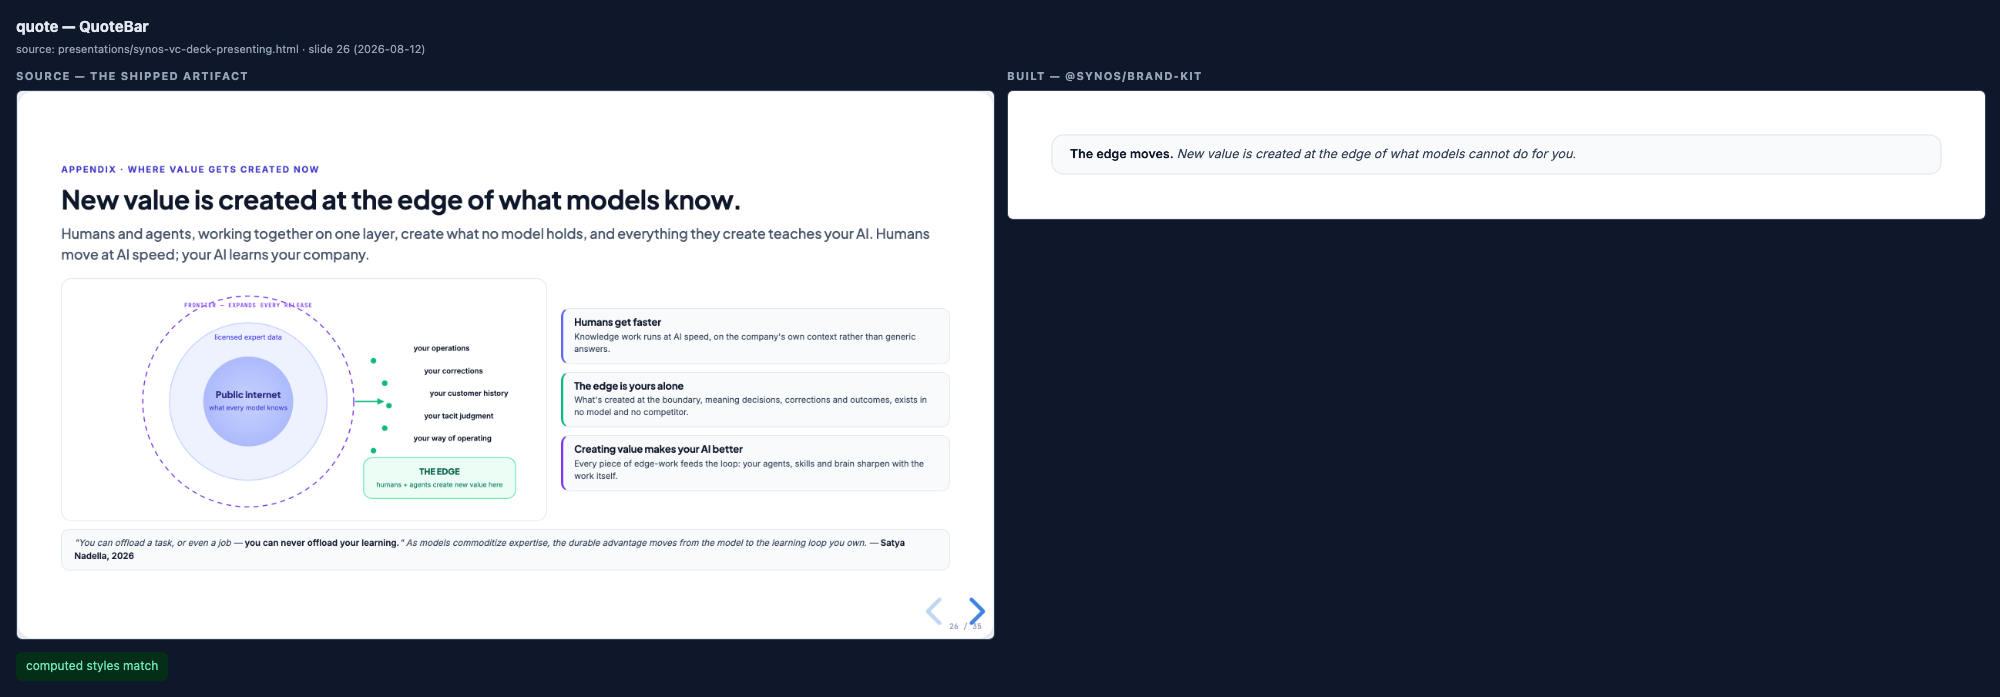
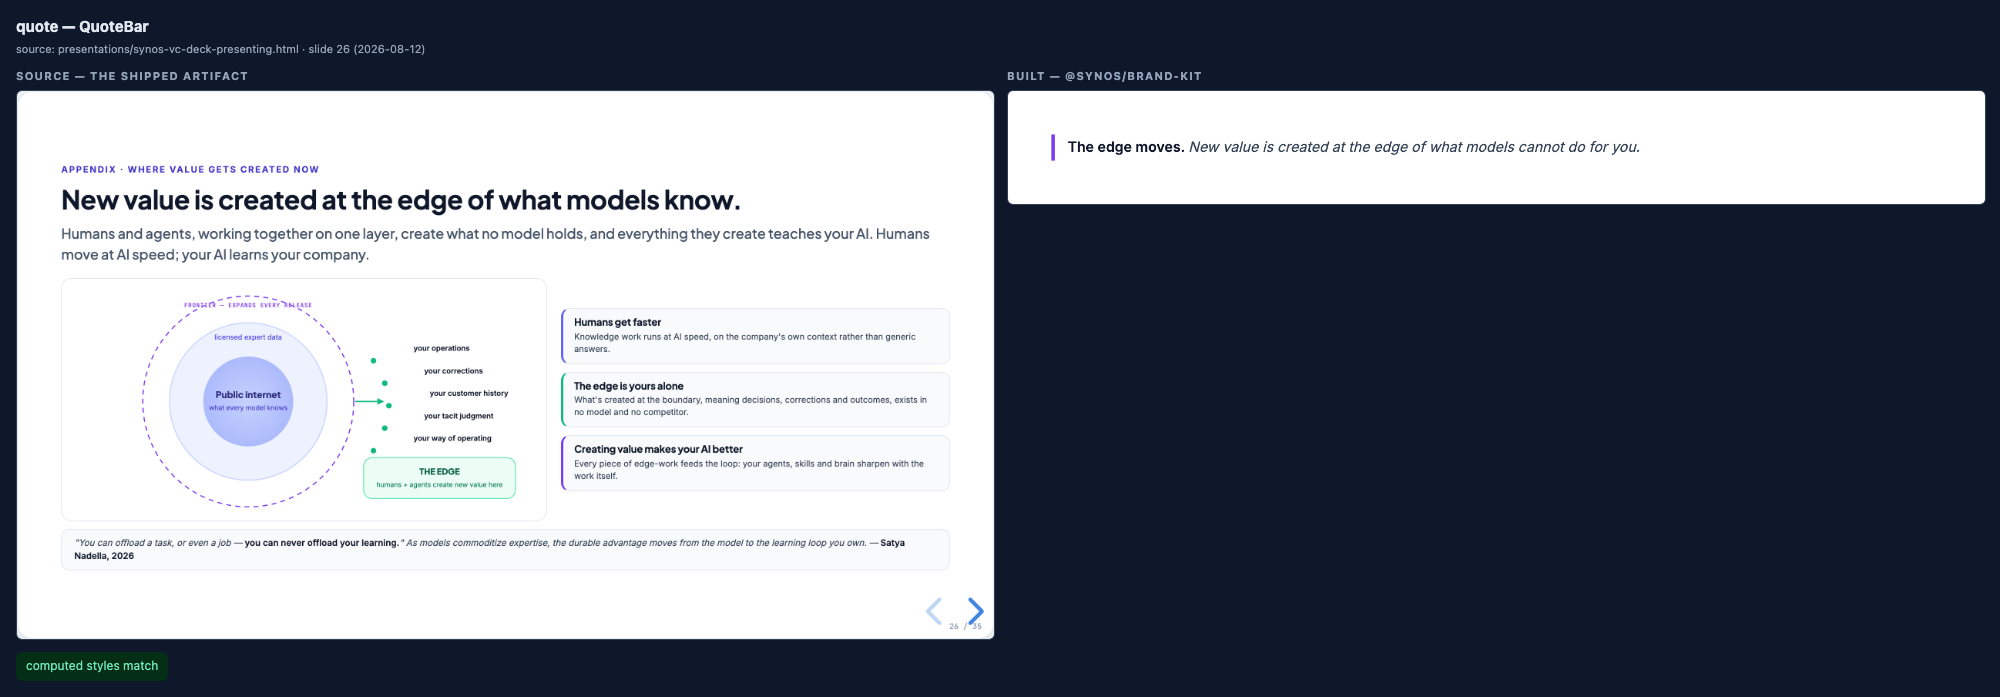
feat(brand-kit): re-solve the serif headline with ink, de-box the last four cards
Decision F. The Instrument Serif switch moved h1 34px/700 sans to 40px/400 serif
and called that a re-solve of the lost weight. It was not one. Presence on a wall
is ink, not point size, and Instrument Serif is both lighter-stemmed and
narrower-set than Plus Jakarta Sans, so the swap lost on both terms at once.
tools/ink.mjs draws the longest headline in the corpus at each spec and counts
glyph pixels:

  PJS 34/700   set width 919px   ink  9528px²
  IS  40/400   set width 734px   ink  6173px²   0.80x width, 0.65x ink
  IS  54/400   set width 963px   ink 11320px²   1.05x width, 1.19x ink

A serif headline painting two thirds of the ink of the sans it replaced reads
quieter, which inverts the point of the face change. h1 is now 54px at -0.024em
with line-height 1.08 — the first step that clears the old headline on both terms
with margin, and it still leaves 305px of the 1268px content width in hand on the
longest headline in the corpus, which 58px would not. Colour was measured as a
third lever and rejected: --sk-ink is already 17.4:1 on white and the darkest
thing left is a 12% luminance move, invisible at projector gamma.

.sk-cover-title follows to 72px. At 56px it would sit 1.04x the h1 on the slide
after it, which is not a step. The old system ran cover/h1 = 47/34 = 1.38;
72/54 = 1.33 holds it, and 72px is where .sk-stat-value already sits.

Decision G. The four components the last pass named as remaining de-box
[…]

Changed region(s): [[0.496, 0.2712, 0.992, 0.3314], [0.527, 0.1808, 0.806, 0.241]]

diff --git a/packages/brand-kit/src/deck/Cards.css b/packages/brand-kit/src/deck/Cards.css
@@ -170,10 +170,23 @@
  * Conflict C18: this is the clearest two-scale component in the corpus.
  * ═════════════════════════════════════════════════════════════════════════ */
 
+/*
+ * DECISION G (2026-08-14 follow-on de-box). Same argument decision C made for WallCard and
+ * PillarCard, applied to the component that survived it: the phase card's fill is --sk-surface on a
+ * --sk-surface slide, so it paints nothing at all, and its 1px --sk-border hairline is 1.23:1 —
+ * invisible on a projector while still fragmenting the row into three panels. A fill that paints
+ * nothing and a border nobody can see are two devices doing zero work between them.
+ *
+ * What separates the three phases instead: the gap opens 14 -> 28px, and each column already has a
+ * strong top-left anchor in its badge, which is kept. The badge is this component's one colour spend
+ * and the only place the brand gradient appears on the slide (`--sk-phase--bridge`), exactly the
+ * argument that kept `.sk-pillar-ico` through decision C. The dashed foot rule is kept too: it is a
+ * rule, not a container, which is the shape de-boxing converts panels INTO.
+ */
 .sk-phase-row {
   display: grid;
   grid-template-columns: repeat(3, 1fr);
-  gap: 14px;
+  gap: 28px;
   align-items: stretch;
 }
 
@@ -181,10 +194,7 @@
   --sk-phase-accent: var(--sk-indigo);
   --sk-phase-badge: var(--sk-indigo-2);
 
-  border-radius: 14px;
-  padding: 18px;
-  border: 1px solid var(--sk-border);
-  background: var(--sk-surface);
+  padding: 0;
   display: flex;
   flex-direction: column;
   gap: 6px;
@@ -241,10 +251,12 @@
   --sk-phase-badge: var(--sk-violet);
 }
 
-/* Print scale — `.sc` in SYNOS_VC_1PAGER.html. */
+/* Print scale — `.sc` in SYNOS_VC_1PAGER.html. Decision G applies to print as well as deck, for the
+   reason decision C gave when it de-boxed the print callout: a print-only exception would be exactly
+   the "one more variant" the pass exists to remove, and deck-research found the same box-nesting
+   habit on the one-pagers (17-30 bordered boxes per A4 page). Radius and padding went with the fill
+   they were shaping; the tighter print gap stays. */
 .sk-phase--print {
-  border-radius: 10px;
-  padding: 9px 11px;
   gap: 3px;
 }
 .sk-phase--print .sk-phase-badge {
@@ -350,17 +362,24 @@
  * StatCard — `.g3` + `.stat-card` (`.n` / `.l` / `.s`), 10 occurrences in the VC decks.
  * ═════════════════════════════════════════════════════════════════════════ */
 
+/*
+ * DECISION G (2026-08-14 follow-on de-box). The stat card is the clearest case left in the kit and
+ * decision C should have taken it: a 72px numeral is the single loudest object on its slide, and
+ * putting a 1.23:1 hairline and a 2%-lighter fill around it is drawing a plate under a spotlight.
+ * The number is the card. Fill, hairline, radius and padding all go; the row gap opens 14 -> 28px so
+ * three numbers read as three columns by space, which is what the fill was standing in for.
+ *
+ * Colour survives untouched — --sk-stat-value is the per-stat hue and, since decision A took the
+ * face down to one weight, it is the only emphasis channel the number has left besides size.
+ */
 .sk-stat-row {
   display: grid;
   grid-template-columns: repeat(3, 1fr);
-  gap: 14px;
+  gap: 28px;
 }
 .sk-stat {
   --sk-stat-value: var(--sk-indigo-2);
-  background: var(--sk-surface-2);
-  border: 1px solid var(--sk-border);
-  border-radius: 14px;
-  padding: 22px 18px;
+  padding: 0;
   text-align: center;
 }
 /*
@@ -488,41 +507,40 @@
  * 8 occurrences in the VC decks (`.dies` grey, `.wins` violet, `.doorA` indigo).
  * ═════════════════════════════════════════════════════════════════════════ */
 
+/*
+ * DECISION G (2026-08-14 follow-on de-box). A two-column contrast is the one layout that does not
+ * need a container to be read as two columns — the reader is being asked to compare left against
+ * right, and a gutter says that as clearly as two tinted plates do. Fill, hairline, radius and
+ * padding go; the gutter opens 14 -> 40px.
+ *
+ * The tone survives, moved from the plate onto the type: the column eyebrow already took its hue
+ * from `--sk-split-eyebrow`, and the item marker (the ✓ / ✕ that carries the whole argument of the
+ * slide) now takes it too instead of sitting in --sk-ink-2 like the sentence beside it. That is more
+ * colour discipline, not less: the hue lands on the two glyphs that mean something rather than being
+ * washed across 300px of background behind text that must then survive the tint.
+ */
 .sk-split {
   display: grid;
   grid-template-columns: 1fr 1fr;
-  gap: 14px;
+  gap: 40px;
 }
 .sk-split-col {
   --sk-split-eyebrow: var(--sk-muted);
-  border-radius: 14px;
-  padding: 18px 20px;
-  background: var(--sk-surface-2);
-  border: 1px solid var(--sk-border);
+  padding: 0;
 }
 .sk-split-col--violet {
-  background: var(--sk-violet-bg);
-  border: 1px solid var(--sk-violet-br);
   --sk-split-eyebrow: var(--sk-violet);
 }
 .sk-split-col--indigo {
-  background: var(--sk-indigo-bg);
-  border: 1px solid var(--sk-indigo-2);
   --sk-split-eyebrow: var(--sk-indigo);
 }
 .sk-split-col--emerald {
-  background: var(--sk-emerald-bg);
-  border: 1px solid var(--sk-emerald-br);
   --sk-split-eyebrow: var(--sk-emerald);
 }
 .sk-split-col--amber {
-  background: var(--sk-amber-bg);
-  border: 1px solid var(--sk-amber-br);
   --sk-split-eyebrow: var(--sk-amber);
 }
 .sk-split-col--red {
-  background: var(--sk-red-bg);
-  border: 1px solid var(--sk-red-br);
   --sk-split-eyebrow: var(--sk-red);
 }
 /* `.c-eyebrow` — the column's own eyebrow, tracked 1.4px rather than the slide eyebrow's 1.6px. */
@@ -556,6 +574,11 @@
   color: var(--sk-ink-2);
   line-height: 1.45;
 }
+/* Decision G: the marker takes the column's hue now that the column has no tint to carry it. */
+.sk-split-item > span:first-child {
+  color: var(--sk-split-eyebrow);
+  font-weight: 600;
+}
 
 /* ══════════════════════════════════════════════════════════════════════════
  * Caption / QuoteBar — the two trailing lines under a body block.
@@ -580,12 +603,21 @@
   font-style: normal;
 }
 
+/*
+ * DECISION G (2026-08-14 follow-on de-box). The quote bar was a filled, hairlined, rounded box
+ * holding one italic line at 11.5px — the same rectangle-around-a-sentence StepCard's quote already
+ * gave up under decision C. It takes the same replacement, and deliberately the same one rather than
+ * a new idea: a 3px violet rule on the left edge. The kit now says "a quoted line is a rule plus
+ * italics" in both places it says anything about quoted lines.
+ *
+ * Size goes 11.5 -> 13px with the box. 11.5px was smaller than the eyebrow above it and was getting
+ * away with it because the plate marked the object out; with the plate gone the line has to hold on
+ * its own, and 13px is the scale's label step (decision C), not a new number.
+ */
 .sk-quote {
-  background: var(--sk-surface-2);
-  border: 1px solid var(--sk-border);
-  border-radius: 11px;
-  padding: 9px 16px;
-  font-size: 11.5px;
+  border-left: 3px solid var(--sk-violet);
+  padding: 2px 0 2px 12px;
+  font-size: 13px;
   color: var(--sk-ink-2);
   line-height: 1.5;
   font-style: italic;
@@ -594,11 +626,15 @@
   color: var(--sk-ink);
   font-style: normal;
 }
-/* Print scale — `.q` in the CTO one-pagers: indigo-tinted, 8.6px. */
+/* Print scale — `.q` in the CTO one-pagers: indigo-tinted, 8.6px. Decision G takes the hairline (the
+   same 1px tint-on-tint line decision C removed from `.sk-callout--print`) and re-states the base
+   rule in indigo so the deck and print shapes stay one shape. The indigo tint stays: on A4 at 8.6px,
+   read at 40cm rather than projected, a tint is doing real work that a rule alone would not. */
 .sk-quote--print {
   background: var(--sk-indigo-bg);
-  border: 1px solid var(--sk-indigo-br);
-  border-radius: 7px;
+  border: none;
+  border-left: 3px solid var(--sk-indigo-2);
+  border-radius: 0 7px 7px 0;
   padding: 6px 9px;
   font-size: 8.6px;
   color: var(--sk-indigo);

diff --git a/packages/brand-kit/src/styles/base.css b/packages/brand-kit/src/styles/base.css
@@ -8,9 +8,11 @@
  * DECISION C (2026-08-13 improvement pass) then replaced that scale outright. The extracted scale
  * ran 34 / 18 / 17 / 16 / 11.5, which put h2, h3 and p inside a 12.5% range covering three
  * semantic levels — indistinguishable at Hale's 25%-zoom test, so hierarchy was being carried by
- * weight and colour instead of size (deck-research §D.2). The scale is now 40 / 26 / 20 / 16 / 13,
+ * weight and colour instead of size (deck-research §D.2). The scale is now 54 / 26 / 20 / 16 / 13,
  * with every adjacent ratio at or above 1.25 and the eyebrow lifted off the ambient-light floor
- * (13px = 1.81%EH against 11.5px = 1.60%EH, deck-research §B.3).
+ * (13px = 1.81%EH against 11.5px = 1.60%EH, deck-research §B.3). h1 was 40px until decision F
+ * (2026-08-14) measured that a 400-weight serif at 40px paints less ink than the 34px/700 sans it
+ * replaced; the h1 comment below carries the numbers.
  *
  * Plus Jakarta Sans is gone from the load (decision A). Instrument Serif is loaded regular and
  * italic — it has no other weight.
@@ -61,16 +63,40 @@
 }
 /*
  * h1 is one of exactly three Instrument Serif roles. The face has no bold, so the 700 it replaces
- * is re-solved by size: 34px/700 sans becomes 40px/400 serif. 40px = 5.56%EH, readable to 7.6 m on
- * a 55" screen, so the one element that already cleared AVIXA's lecture preset clears it wider.
+ * has to be re-solved by size and tracking.
+ *
+ * DECISION F (2026-08-14 follow-on). The first attempt at that re-solve took h1 34px/700 sans to
+ * 40px/400 serif, and 40px was not a re-solve — it was a size bump that lost the argument. Presence
+ * on a wall is ink, not point size, and Instrument Serif is both lighter-stemmed AND narrower-set
+ * than Plus Jakarta Sans, so it loses on both terms at once. `node tools/ink.mjs` renders the
+ * longest real headline in the deck at each candidate and counts glyph pixels:
+ *
+ *   PJS   34/700   set width  919px   ink  9528px²   (the face this replaced)
+ *   IS    40/400   set width  734px   ink  6173px²   0.80x width, 0.65x ink   <- phase 3
+ *   IS    50/400   set width  898px   ink  9875px²   0.98x width, 1.04x ink
+ *   IS    54/400   set width  963px   ink 11320px²   1.05x width, 1.19x ink   <- here
+ *   IS    58/400   set width 1035px   ink 12774px²   1.13x width, 1.34x ink
+ *
+ * A serif headline that paints two thirds of the ink of the sans it replaced reads QUIETER, which
+ * inverts the entire point of the face change. 54px is the first step that clears the old headline
+ * on both terms with margin rather than merely matching it, and it still leaves 305px of the 1268px
+ * content width in hand on the longest headline in the corpus — 58px does not leave enough for a
+ * longer one. Tracking goes -0.015em -> -0.024em: a display serif at 54px wants the tighter fit,
+ * and closing the sidebearings is the only other lever a single-weight face offers.
+ *
+ * Colour was measured as a third lever and rejected: --sk-ink #0f172a is already 17.4:1 on white,
+ * and the darkest thing left (#020617, 19.6:1) is a 12% luminance move that is invisible at any
+ * projector gamma. It would be a token bought for nothing.
+ *
+ * 54px = 7.5%EH, comfortably past AVIXA's lecture preset.
  */
 .sk-deck :where(h1) {
   font-family: var(--sk-font-display);
-  font-size: 40px;
+  font-size: 54px;
   font-weight: 400;
-  letter-spacing: -0.015em;
-  line-height: 1.12;
-  margin: 0 0 12px;
+  letter-spacing: -0.024em;
+  line-height: 1.08;
+  margin: 0 0 14px;
 }
 .sk-deck :where(h2) {
   font-size: 26px;

diff --git a/packages/brand-kit/src/deck/Slides.css b/packages/brand-kit/src/deck/Slides.css
@@ -13,17 +13,24 @@
 
 /*
  * Decision A: the cover headline is the second of the three Instrument Serif roles. 47px/800 sans
- * becomes 56px/400 serif — the face has no bold, so the lost weight is bought back with size, and
- * the cover stays a clear step above the 40px h1. -1.4px of tracking was set for a geometric sans
- * at 47px; a serif at 56px needs less, so it goes to -0.02em (≈ -1.1px).
+ * became 56px/400 serif — the face has no bold, so the lost weight is bought back with size.
+ *
+ * DECISION F (2026-08-14): 72px. This step is not a second opinion about the cover, it is a
+ * consequence of h1 moving 40 -> 54px. At 56px the cover title would sit 1.04x the h1 on the slide
+ * after it, which is not a step, it is a rounding error; a deck whose cover is the same size as its
+ * body headlines has no cover. The old system ran cover/h1 = 47/34 = 1.38. 72/54 = 1.33 holds the
+ * same relationship, and 72px is where --sk-stat-value already sits, so the deck's two "largest
+ * object on the slide" roles now agree on one size instead of on two near-misses.
+ *
+ * Tracking follows h1 to -0.024em for the same reason it did there.
  */
 .sk-cover-title {
   font-family: var(--sk-font-display);
-  font-size: 56px;
+  font-size: 72px;
   font-weight: 400;
-  line-height: 1.04;
+  line-height: 1.02;
   margin: 4px 0 18px;
-  letter-spacing: -0.02em;
+  letter-spacing: -0.024em;
   color: var(--sk-ink);
 }
 .sk-cover-lead {

diff --git a/packages/brand-kit/src/deck/Cards.tsx b/packages/brand-kit/src/deck/Cards.tsx
@@ -296,7 +296,11 @@ export function UseCaseGrid({ children, className, style }: GridProps) {
  * ═══════════════════════════════════════════════════════════════════════════ */
 
 export interface StatCardProps {
-  /** The number. Rendered at 48px / 800 in the tone's hue. Keep it short — it is the whole card. */
+  /**
+   * The number. Rendered at 72px Instrument Serif in the tone's hue. Keep it short — since decision
+   * G de-boxed the card it is not merely the whole card, it IS the card: there is no surface behind
+   * it, so the number and its hue are the only things marking the object out.
+   */
   value: ReactNode
   /** What the number means. */
   label?: ReactNode
